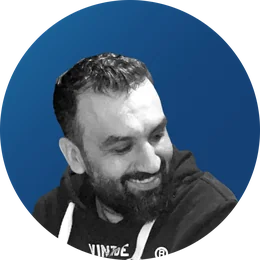
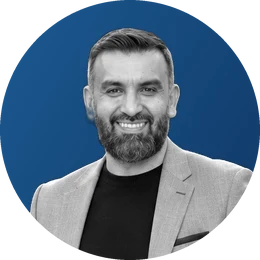
Team slide about the whole team, new photos for Ali and Hussein
- 'The people behind the work': the seven in-house teams as cards, leadership
  as a small equal row underneath
- New portraits for Ali Al Ajouz and Hussein Al Ajouz, matched to the
  black-and-white style

Claude-Session: https://claude.ai/code/session_01Wrbc3RunM1P9vPbiQNvBhn

diff --git a/script.js b/script.js
@@ -229,32 +229,9 @@ var RESULTS={
     ['events','Events & activations','Launches, events, booths and kiosks, from the 3D design to the night itself.',['Event producers','3D designers'],'work:@events'],
     ['ai','AI department','AI images, AI films and hybrid shoots, for our clients and for other agencies.',['AI artists','AI editors','Producers'],'svc-ai']
   ];
-  var oChart=document.getElementById('oChart'), oLines=document.getElementById('oLines'), oDeps=document.getElementById('oDeps'), oDet=document.getElementById('oDet'), oSel=-1, oT=null, oP=[];
-  oDeps.innerHTML=DEPS.map(function(d,j){return '<button class="od" style="--j:'+j+'" data-j="'+j+'"><i><svg viewBox="0 0 24 24" fill="none" stroke="currentColor" stroke-width="1.7" stroke-linecap="round" stroke-linejoin="round" aria-hidden="true">'+OIC[d[0]]+'</svg></i><b>'+esc(d[1])+'</b><span class="dd">'+esc(d[2])+'</span></button>'}).join('');
-  [].forEach.call(oChart.querySelectorAll('.op'),function(f,j){f.style.setProperty('--j',j)});
-  function oPos(el){var x=0,y=0,e=el;while(e&&e!==oChart){x+=e.offsetLeft;y+=e.offsetTop;e=e.offsetParent}return {x:x+el.offsetWidth/2,t:y,b:y+el.offsetHeight}}
-  function oDraw(){
-    var NS='http://www.w3.org/2000/svg', f=oPos(oChart.querySelector('.r1 .op')), L=[].map.call(oChart.querySelectorAll('.r2 .op'),function(e){return {img:oPos(e.querySelector('img')),all:oPos(e)}}), D=[].map.call(oDeps.children,oPos);
-    var y1=(f.b+L[0].img.t)/2, lb=Math.max.apply(null,L.map(function(l){return l.all.b})), y2=(lb+D[0].t)/2, cx=L[Math.floor(L.length/2)].all.x;
-    oLines.innerHTML='';oP=[];
-    function add(d,g,dep){var p=document.createElementNS(NS,'path');p.setAttribute('d',d);p.dataset.g=g;if(dep!=null)p.dataset.dep=dep;oLines.appendChild(p);oP.push(p);return p}
-    L.forEach(function(l){add('M'+f.x+' '+(f.b+4)+'V'+y1+'H'+l.img.x+'V'+(l.img.t-4),0)});
-    L.forEach(function(l){add('M'+l.all.x+' '+(l.all.b+4)+'V'+y2,1,null).classList.add('lead')});
-    D.forEach(function(d,j){add('M'+cx+' '+y2+'H'+d.x+'V'+(d.t-4),2,j)});
-  }
-  function oAnim(){oP.forEach(function(p){var n=p.getTotalLength();p.style.transition='none';p.style.strokeDasharray=n;p.style.strokeDashoffset=n});oLines.getBoundingClientRect();
-    oP.forEach(function(p){p.style.transition='stroke-dashoffset .8s cubic-bezier(.45,.05,.25,1) '+(.45+(+p.dataset.g)*.35)+'s, stroke .35s, stroke-width .35s';p.style.strokeDashoffset=0})}
-  function oSet(i){
-    var first=oSel<0; oSel=i; var d=DEPS[i];
-    [].forEach.call(oDeps.children,function(b,j){b.classList.toggle('sel',j===i);b.setAttribute('aria-pressed',j===i)});
-    oP.forEach(function(p){p.classList.toggle('hot',p.dataset.dep==i||p.classList.contains('lead'))});
-    oDet.classList.add('fade');
-    setTimeout(function(){oDet.innerHTML='<p class="eyebrow">Team '+(i+1)+' of '+DEPS.length+'</p><h3>'+esc(d[1])+'</h3><p>'+esc(d[2])+'</p><div class="oroles">'+d[3].map(function(r){return '<span>'+esc(r)+'</span>'}).join('')+'</div>'+(d[4]?'<button class="go2" data-go="'+d[4]+'">See their work '+GO+'</button>':'');oDet.classList.remove('fade')},first?0:200);
-  }
-  function oStop(){clearInterval(oT);oT=null}
-  function oPlay(){oStop();if(flow)return;oSel=-1;oDet.innerHTML='';var i=0;setTimeout(function(){if(!slides[cur].classList.contains('s-team'))return;oSet(0);oT=setInterval(function(){i=(i+1)%DEPS.length;oSet(i)},3200)},1300)}
-  oDeps.addEventListener('click',function(e){var b=e.target.closest('.od');if(!b||flow)return;oStop();oSet(+b.dataset.j)});
-  oDeps.addEventListener('mouseover',function(e){var b=e.target.closest('.od');if(!b||flow||!oT&&oSel==b.dataset.j)return;if(oT){oStop()}oSet(+b.dataset.j)});
+  var oDeps=document.getElementById('oDeps');
+  oDeps.innerHTML=DEPS.map(function(d,j){return '<div class="ot" style="--j:'+j+'"><i><svg viewBox="0 0 24 24" fill="none" stroke="currentColor" stroke-width="1.7" stroke-linecap="round" stroke-linejoin="round" aria-hidden="true">'+OIC[d[0]]+'</svg></i><b>'+esc(d[1])+'</b><p>'+esc(d[2])+'</p><span class="orl">'+d[3].map(esc).join(' · ')+'</span>'+(d[4]?'<button class="go2" data-go="'+d[4]+'">See their work <svg viewBox="0 0 24 24" fill="none" stroke="currentColor" stroke-width="2" aria-hidden="true"><path d="M4 12h15M13 6l6 6-6 6"/></svg></button>':'')+'</div>'}).join('');
+  function oStop(){} function oPlay(){}
 
   /* just for fun: what can your budget do? (not a price list) */
   var BUD=[

diff --git a/index.html b/index.html
@@ -8,7 +8,7 @@
 <link rel="preconnect" href="https://fonts.googleapis.com">
 <link rel="preconnect" href="https://fonts.gstatic.com" crossorigin>
 <link rel="stylesheet" href="https://fonts.googleapis.com/css2?family=Montserrat:wght@300;400;500;600;700&display=swap">
-<link rel="stylesheet" href="styles.css?v=1bc04813">
+<link rel="stylesheet" href="styles.css?v=43f698b5">
 </head>
 <body>
 
@@ -126,14 +126,14 @@
     <div class="org">
       <div class="org-l">
         <div class="kicker rise" style="--d:0"><span class="rule"></span><p class="eyebrow">Our team</p></div>
-        <h2 class="h2 rise" style="--d:1">The people behind MCG.</h2>
-        <p class="body rise" style="--d:2">MCG started in 2004 as Media City, founded by Ahmad Al Ajouz. It became MC Group in 2009, and MCG in 2020. Today we’re a team of 30 across seven in-house teams, in Kuwait and Beirut.</p>
+        <h2 class="h2 rise" style="--d:1">The people behind the work.</h2>
+        <p class="body rise" style="--d:2">Everything in this deck was made by our team of 30, in Kuwait and Beirut. Strategists, designers, writers, filmmakers, media buyers, event producers and AI specialists, all in-house. Our job is to give them the room to do their best work.</p>
         <div class="ostats rise" style="--d:3"><div><b>2004</b><span>founded</span></div><div><b>30</b><span>people</span></div><div><b>7</b><span>in-house teams</span></div><div><b>2</b><span>offices</span></div></div>
-        <div class="odet rise" style="--d:4" id="oDet" aria-live="polite"></div>
+        <div class="olead rise" style="--d:4"><p class="og-l">Leadership</p><div class="olead-g"><figure class="op2"><img src="assets/team_ahmad.webp" alt="Ahmad Al Ajouz"><figcaption><b>Ahmad Al Ajouz</b><span>Chairman &amp; Founder</span></figcaption></figure><figure class="op2"><img src="assets/team_ali.webp" alt="Ali Al Ajouz"><figcaption><b>Ali Al Ajouz</b><span>Chief Executive Officer</span></figcaption></figure><figure class="op2"><img src="assets/team_hussein.webp" alt="Hussein Al Ajouz"><figcaption><b>Hussein Al Ajouz</b><span>Managing Director &amp; Business Development</span></figcaption></figure><figure class="op2"><img src="assets/team_mohamad.webp" alt="Mohamad Zouhairy"><figcaption><b>Mohamad Zouhairy</b><span>Business Director</span></figcaption></figure></div></div>
       </div>
       <div class="ochart rise" style="--d:2" id="oChart">
-        <div class="og"><p class="og-l">Our leadership</p><div class="orow r2"><figure class="op"><img src="assets/team_ahmad.webp" alt="Ahmad Al Ajouz"><figcaption><b>Ahmad Al Ajouz</b><span>Chairman &amp; Founder</span></figcaption></figure><figure class="op"><img src="assets/team_ali.webp" alt="Ali Al Ajouz"><figcaption><b>Ali Al Ajouz</b><span>Chief Executive Officer</span></figcaption></figure><figure class="op"><img src="assets/team_hussein.webp" alt="Hussein Al Ajouz"><figcaption><b>Hussein Al Ajouz</b><span>Managing Director &amp; Business Development</span></figcaption></figure><figure class="op"><img src="assets/team_mohamad.webp" alt="Mohamad Zouhairy"><figcaption><b>Mohamad Zouhairy</b><span>Business Director</span></figcaption></figure></div></div>
-        <div class="og"><p class="og-l">30 of us in total, across seven in-house teams</p><div class="orow r3" id="oDeps"></div></div>
+        <p class="og-l">Seven teams, all in-house</p>
+        <div class="oteams" id="oDeps"></div>
       </div>
     </div>
   </section>
@@ -457,7 +457,7 @@
   <p>Turn your phone sideways<br>for the full view.</p><small>Tap anywhere to continue</small>
 </div></div>
 
-<script src="script.js?v=6bedfdfd"></script>
+<script src="script.js?v=0ebae939"></script>
 
 </body>
 </html>

diff --git a/styles.css b/styles.css
@@ -640,7 +640,27 @@ img{max-width:100%;display:block}
 .oroles span{font:500 11px/1 var(--f-sans);padding:6px 9px;border-radius:999px;background:rgba(20,64,116,.08);color:var(--cream-ink)}
 .odet .go2{margin-top:auto;font:600 10.5px/1 var(--f-sans);letter-spacing:.16em;text-transform:uppercase;color:var(--cream-ink);border-bottom:1.5px solid var(--orange);align-self:flex-start;padding:6px 0;display:inline-flex;gap:6px;align-items:center}
 .odet .go2 svg{width:13px;height:13px}
-.ochart{position:relative;height:560px;display:flex;flex-direction:column;justify-content:center;gap:34px}
+.ochart{position:relative;display:flex;flex-direction:column;justify-content:center;gap:0;align-self:center}
+.oteams{display:grid;grid-template-columns:repeat(12,minmax(0,1fr));gap:12px}
+.ot{grid-column:span 3;display:flex;flex-direction:column;align-items:flex-start;gap:7px;padding:16px 16px 14px;border-radius:14px;background:rgba(255,255,255,.05);box-shadow:inset 0 0 0 1px rgba(255,255,255,.13);transition:background .3s,transform .4s cubic-bezier(.2,.8,.2,1)}
+.ot:nth-child(n+5){grid-column:span 4}
+.ot:hover{background:rgba(255,255,255,.09);transform:translateY(-3px)}
+.is-active .ot{animation:otin .6s cubic-bezier(.2,.8,.2,1) calc(.35s + var(--j)*.07s) both}
+@keyframes otin{from{opacity:0;transform:translateY(14px)}}
+.ot i{width:36px;height:36px;border-radius:50%;display:grid;place-items:center;background:rgba(242,145,35,.16);color:var(--orange)}
+.ot i svg{width:18px;height:18px}
+.ot b{font:600 14px/1.25 var(--f-display);letter-spacing:-.01em;color:var(--ink)}
+.ot p{font:400 12px/1.45 var(--f-sans);color:var(--mist);text-wrap:pretty}
+.ot .orl{font:500 10.5px/1.45 var(--f-sans);color:var(--mist-2)}
+.ot .go2{margin-top:auto;padding-top:6px;font:600 9.5px/1 var(--f-sans);letter-spacing:.16em;text-transform:uppercase;color:var(--ink);display:inline-flex;gap:6px;align-items:center;border-bottom:1.5px solid var(--orange);padding-bottom:5px}
+.ot .go2 svg{width:12px;height:12px}
+.olead .og-l{margin-bottom:12px}
+.olead-g{display:grid;grid-template-columns:1fr 1fr;gap:12px 14px}
+.op2{display:grid;grid-template-columns:42px 1fr;gap:10px;align-items:center}
+.op2 img{width:42px;height:42px;border-radius:50%;box-shadow:0 0 0 2px rgba(246,248,251,.18)}
+.op2 figcaption{display:flex;flex-direction:column;gap:2px;min-width:0}
+.op2 b{font:600 12.5px/1.2 var(--f-sans);color:var(--ink)}
+.op2 span{font:500 10.5px/1.3 var(--f-sans);color:var(--mist-2)}
 .og-l{font:600 11px/1 var(--f-sans);letter-spacing:.2em;text-transform:uppercase;color:var(--mist-2);padding-top:12px;border-top:1px solid var(--line);margin-bottom:20px}
 .orow.r2{display:grid;grid-template-columns:repeat(4,minmax(0,1fr));gap:18px;justify-content:stretch}
 .orow.r2 .op{width:auto}

diff --git a/README.md b/README.md
@@ -28,7 +28,7 @@ Plain HTML, CSS and JavaScript, with no build step. Please pull before you edit,
 - `SVI`: which projects sit under which service.
 - `RC`: the result cards on the Digital marketing slide.
 - `CASES`: the 19 case studies (brief, what we did, result).
-- `DEPS`: the seven in-house teams on the "Our team" slide.
+- `DEPS`: the seven in-house teams on the "Our team" slide (shown as cards). The leadership names and photos are in `index.html`, under "Leadership".
 - `AIT`: the three tiles on the AI department slide.
 - `GROW_KW`, `GBEIRUT`, `GLEAD`, `GERA`: the "Watch us grow up" slider game (Kuwait headcount by year, the Beirut branch, the four leadership moments, and the caption for each year). Headcounts between 2004 and today are estimates; replace them with real numbers when available.
 - `CL`: client logos. Sector codes:
